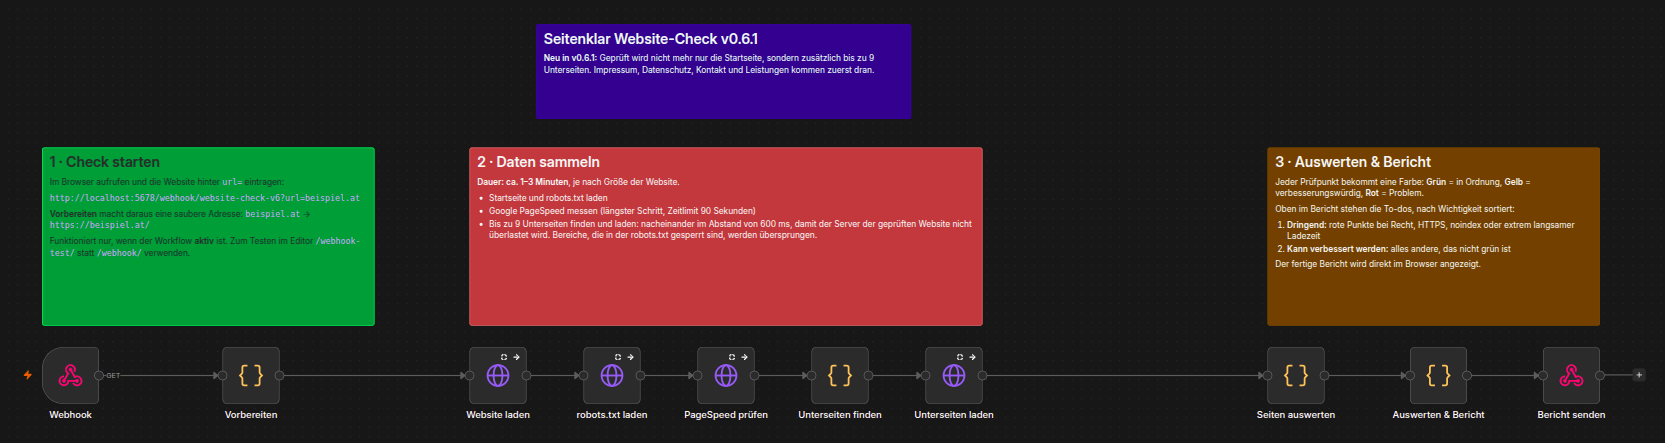
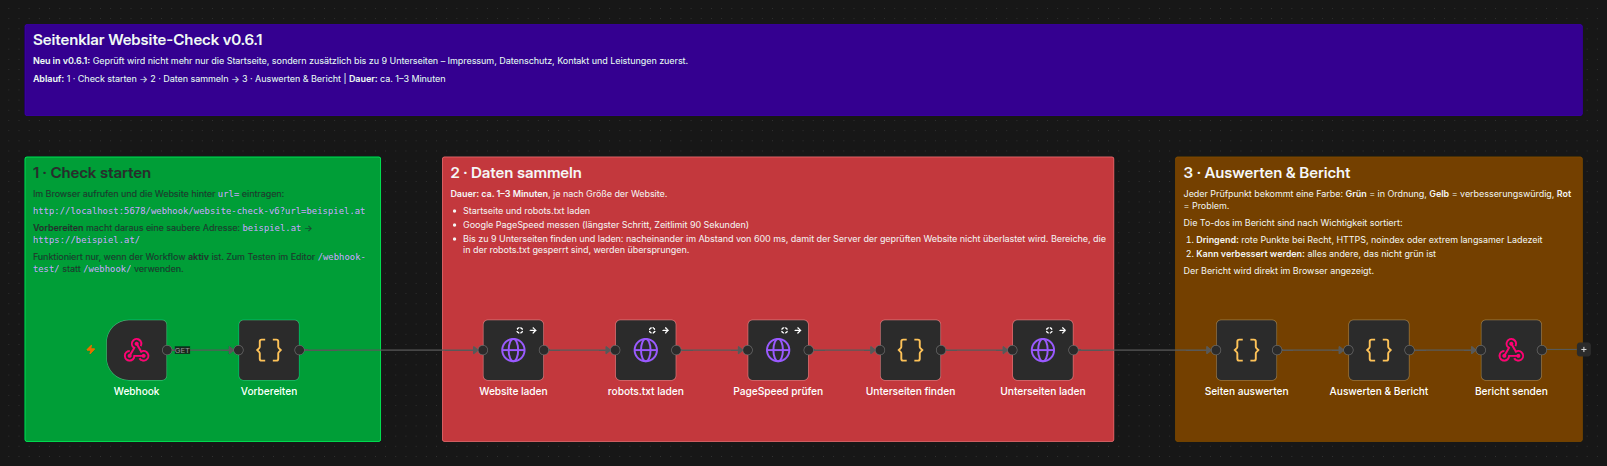
Aufgeräumten Workflow-Screenshot einbauen
- workflow.png durch den neuen, sortierten Screenshot ersetzt
- ?v=2 an die Bildadresse gehängt, damit Browser und CDN nicht die alte Version aus dem Cache zeigen

Claude-Session: https://claude.ai/code/session_01BKBwqnz78qYVYVAtSFgvUW

diff --git a/index.html b/index.html
@@ -106,7 +106,7 @@
         <li><div class="t"><h3>Bericht erstellen</h3></div><p>Alle Ergebnisse werden bewertet und nach Dringlichkeit sortiert: Rot, Gelb, Grün.</p><span class="node">n8n: Auswerten &amp; Bericht → Bericht senden</span></li>
       </ol>
       <figure class="shot">
-        <a href="workflow.png" target="_blank" rel="noopener"><img src="workflow.png" width="1665" height="443" loading="lazy" alt="Screenshot des Seitenklar-Workflows in n8n: zehn verbundene Schritte, von „Webhook“ bis „Bericht senden“."></a>
+        <a href="workflow.png?v=2" target="_blank" rel="noopener"><img src="workflow.png?v=2" width="1607" height="466" loading="lazy" alt="Screenshot des Seitenklar-Workflows in n8n: zehn verbundene Schritte, von „Webhook“ bis „Bericht senden“."></a>
         <figcaption>So sieht der echte Workflow in n8n aus (zum Vergrößern anklicken).</figcaption>
       </figure>
     </div>
